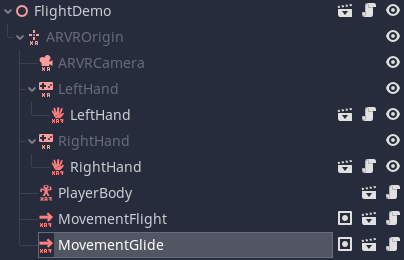
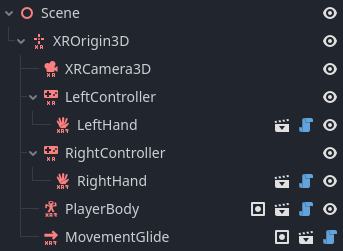
Update glide documentation.

diff --git a/_docs/movement/glide.md b/_docs/movement/glide.md
@@ -10,7 +10,7 @@ in a T-pose.
 
 ## Setup
 The glide movement is implemented as a movement scene that needs to be added
-to the ARVROrigin node. This will add a PlayerBody if necessary.
+to the XROrigin3D node. This will add a PlayerBody if necessary.
 
 The following shows a player configuration including gliding:
 ![Glide Movement Setup]({{ site.url }}/assets/img/glide/glide_setup.png)
@@ -22,13 +22,26 @@ The functionality works out of the box but can be further configured:
 
 ### XRToolsMovementGlide
 
-| Property              | Description                                                     |
-| --------------------- | --------------------------------------------------------------- |
-| Enabled               | When ticked the movement function is enabled.                   |
-| Order                 | The order in which this movement is applied when multiple movement functions are used.  |
-| Glide Detect Distance | T-pose controller distance to trigger gliding. |
-| Glide Min Fall Speed  | Minimum player Z/fall speed to trigger gliding. |
-| Glide Fall Speed      | Target Z/fall speed when gliding. |
-| Glide Forward Speed   | Target forward speed when gliding.  |
-| Horizontal Slew Rate  | Rate at which gliding player horizontal speed changes to target forward speed. |
-| Vertical Slew Rate    | Rate at which gliding player vertical speed changes to target Z/fall speed. |
+| Property | Description |
+| ---- | ------------ |
+| Enabled               | When ticked the movement function is enabled |
+| Order                 | The order in which this movement is applied when multiple movement functions are used |
+| Glide Detect Distance | T-pose controller distance to trigger gliding |
+| Glide Min Fall Speed  | Minimum player Z/fall speed to trigger gliding |
+| Glide Fall Speed      | Target Z/fall speed when gliding |
+| Glide Forward Speed   | Target forward speed when gliding |
+| Horizontal Slew Rate  | Rate at which gliding player horizontal speed changes to target forward speed|
+| Vertical Slew Rate    | Rate at which gliding player vertical speed changes to target Z/fall speed |
+| Turn with Roll        | Turn if the player rolls/banks their arms |
+| Roll Turn Speed       | Speed for roll/bank turns |
+| Wings Impulse         | Support flapping arms for flying |
+| Flap Min Speed        | Minimum arm-down speed to register as a flap |
+| Wings Force           | Flap force translating arm-speed to lift |
+| Rearm Distance Offset | How far the arms have to go back up before a second flap can be performed |
+
+
+## Additional Resources
+
+The following videos show the creation of a basic XR Player with movement including gliding:
+* [Getting Started](https://youtu.be/VrpySdMcdyw)
+* [Advanced Movement](https://youtu.be/tTdaU57M-0s)
